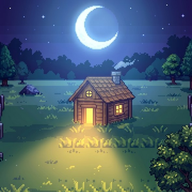
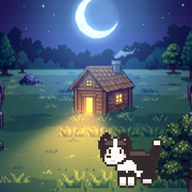
양몰이 아이콘: 달·집·강아지 그림으로 (가족 요청)
Claude-Session: https://claude.ai/code/session_01XSDbpj4fDcHigvgBLKn3kY

diff --git a/sheepdog-v5/index.html b/sheepdog-v5/index.html
@@ -27,15 +27,15 @@
 <video id="인트로" playsinline preload="none"></video>
 <!-- 🚨 파일 이름이 한글이면 Cloudflare 의 캐시 규칙(_headers 의 *.js)이 안 걸린다.
      그래서 주소 뒤에 판 번호를 붙여 캐시를 넘긴다. 코드를 고치면 이 v= 를 같이 올릴 것. -->
-<script src="자료.js?v=5.0r"></script>
-<script src="문구.js?v=5.0r"></script>
-<script src="저장.js?v=5.0r"></script>
-<script src="소리.js?v=5.0r"></script>
-<script src="광고.js?v=5.0r"></script>
-<script src="그림.js?v=5.0r"></script>
-<script src="규칙_생성기.js?v=5.0r"></script>
-<script src="게임.js?v=5.0r"></script>
-<script src="화면.js?v=5.0r"></script>
+<script src="자료.js?v=5.0s"></script>
+<script src="문구.js?v=5.0s"></script>
+<script src="저장.js?v=5.0s"></script>
+<script src="소리.js?v=5.0s"></script>
+<script src="광고.js?v=5.0s"></script>
+<script src="그림.js?v=5.0s"></script>
+<script src="규칙_생성기.js?v=5.0s"></script>
+<script src="게임.js?v=5.0s"></script>
+<script src="화면.js?v=5.0s"></script>
 <script>
 (function(){
   const 캔버스=document.getElementById("캔버스"); let 배율=1;

diff --git a/sheepdog/index.html b/sheepdog/index.html
@@ -27,15 +27,15 @@
 <video id="인트로" playsinline preload="none"></video>
 <!-- 🚨 파일 이름이 한글이면 Cloudflare 의 캐시 규칙(_headers 의 *.js)이 안 걸린다.
      그래서 주소 뒤에 판 번호를 붙여 캐시를 넘긴다. 코드를 고치면 이 v= 를 같이 올릴 것. -->
-<script src="자료.js?v=5.0r"></script>
-<script src="문구.js?v=5.0r"></script>
-<script src="저장.js?v=5.0r"></script>
-<script src="소리.js?v=5.0r"></script>
-<script src="광고.js?v=5.0r"></script>
-<script src="그림.js?v=5.0r"></script>
-<script src="규칙_생성기.js?v=5.0r"></script>
-<script src="게임.js?v=5.0r"></script>
-<script src="화면.js?v=5.0r"></script>
+<script src="자료.js?v=5.0s"></script>
+<script src="문구.js?v=5.0s"></script>
+<script src="저장.js?v=5.0s"></script>
+<script src="소리.js?v=5.0s"></script>
+<script src="광고.js?v=5.0s"></script>
+<script src="그림.js?v=5.0s"></script>
+<script src="규칙_생성기.js?v=5.0s"></script>
+<script src="게임.js?v=5.0s"></script>
+<script src="화면.js?v=5.0s"></script>
 <script>
 (function(){
   const 캔버스=document.getElementById("캔버스"); let 배율=1;

diff --git a/sheepdog-v5/sw.js b/sheepdog-v5/sw.js
@@ -1,5 +1,5 @@
 // sw.js — 양몰이 v5.0. 파일 바꾸면 판 문자열을 올린다.
-const 판 = "양몰이-v5.0r";
+const 판 = "양몰이-v5.0s";
 const 핵심 = ["./","index.html","manifest.json","자료.js","문구.js","저장.js","소리.js","광고.js","그림.js","규칙_생성기.js","게임.js","화면.js","아이콘.png",
   "양_동작.png","늑대.png","여우.png","개/보더콜리.png","개/코기.png","개/골든리트리버.png","개/진도견.png","개/삽살개.png","개/저먼셰퍼드.png",
   "소리/누름.mp3","소리/들임.mp3","소리/배경_목장.mp3","소리/배경_첫화면.mp3","소리/양.mp3","소리/이김.mp3","소리/짐.mp3","소리/짖기.mp3","소리/짖기_보더콜리.mp3","소리/짖기_골든리트리버.mp3"];

diff --git a/sheepdog/sw.js b/sheepdog/sw.js
@@ -1,5 +1,5 @@
 // sw.js — 양몰이 v5.0. 파일 바꾸면 판 문자열을 올린다.
-const 판 = "양몰이-v5.0r";
+const 판 = "양몰이-v5.0s";
 const 핵심 = ["./","index.html","manifest.json","자료.js","문구.js","저장.js","소리.js","광고.js","그림.js","규칙_생성기.js","게임.js","화면.js","아이콘.png",
   "양_동작.png","늑대.png","여우.png","개/보더콜리.png","개/코기.png","개/골든리트리버.png","개/진도견.png","개/삽살개.png","개/저먼셰퍼드.png",
   "소리/누름.mp3","소리/들임.mp3","소리/배경_목장.mp3","소리/배경_첫화면.mp3","소리/양.mp3","소리/이김.mp3","소리/짐.mp3","소리/짖기.mp3","소리/짖기_보더콜리.mp3","소리/짖기_골든리트리버.mp3"];
